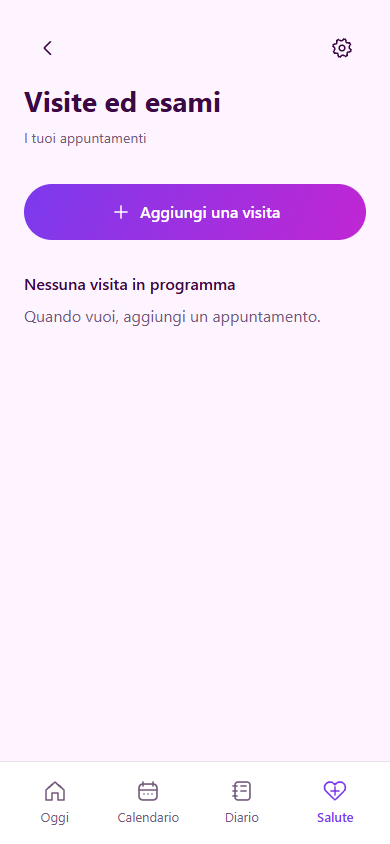
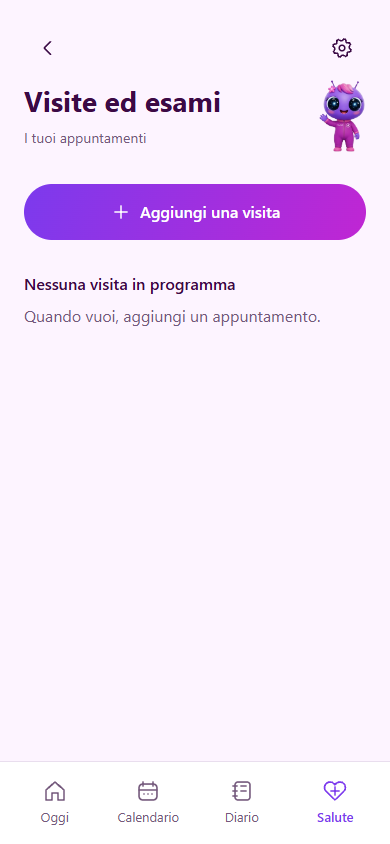
Completa tocco di Cosma, gesto nel calendario e vista annuale

Changed region(s): [[0.8308, 0.0924, 0.9538, 0.1848]]

diff --git a/src/app.js b/src/app.js
@@ -1,3 +1,5 @@
+import {calendarViewSwitch,yearCalendarHTML} from './calendar-view.js';
+import {installCalendarSwipe} from './calendar-gestures.js';
 import {createQuickEntry} from './quick-entry.js';
 import {INTIMACY,ACTIVITY,CONTEXT,MUCUS,togglePick,toggleIntimacy} from './diary-catalog.js';
 import {diaryChoices,filterDiary} from './diary-view.js';
@@ -88,7 +90,7 @@ function cosmaHelp(){
  };
  modal('Cosma ti accompagna',`<p>${esc(text[tab]||'Un giorno alla volta: scegli ciò che vuoi registrare.')}</p>`);
 }
-let foreignFlow,cosma,quickEntry;
+let foreignFlow,cosma,quickEntry,calendarView='month';
 let S = null,
   tab = "oggi",
   sel = D.today(),
@@ -304,6 +306,7 @@ function homeQuickActions(){return `<section class="home-quick-actions" aria-lab
 function vOggi(){const a=D.analysis(S),pr=a.prediction,visit=S.visits.filter(v=>v.date>=D.today()).sort((a,b)=>(a.date+a.time).localeCompare(b.date+b.time))[0],rs=reminders(S).filter(r=>r.date===D.today());if(!a.record)return `<div class="empty-home"><h2>Iniziamo da una data.</h2><p>Registra il primo giorno dell’ultima mestruazione per iniziare il tuo diario.</p>${primary('new-period','Aggiungi il primo ciclo')}</div>`;return `<div class="home-minimal"><div class="cycle-summary">${ring(a)}${button("edit-period","<span>Inizio registrato</span><strong>"+D.fmt(a.record.ls,true)+"</strong>","cycle-start-link",`data-id="${esc(S.periods.find(p=>p.start===a.record.ls).id)}"`)}</div><section class="prediction"><h2>Prossime mestruazioni</h2><p class="estimated-date">${pr?D.fmt(pr.low)+'–'+D.fmt(pr.high):'Dati ancora pochi'}</p><p class="secondary-text">${pr?'Basata sui tuoi ultimi cicli':a.used.length+' intervalli completi registrati'}</p>${button('calculation','Come l’ho calcolato?','method-link')}</section>${homeQuickActions()}${homeWeekHTML(S,{button,esc})}<button type="button" data-action="agenda" class="agenda-minimal"><span>${visit?'Visita '+D.fmt(visit.date)+', '+visit.time:'Visite da aggiungere'}</span><span aria-hidden="true">·</span><span>${rs.length?'Promemoria '+rs[0].time:'Nessun promemoria'}</span></button></div>`;}
 
 function vCal() {
+  if(calendarView==='year'){const year=Number(month.slice(0,4));return calendarViewSwitch(calendarView,{button})+`<div class="month">${button('prev-month',icon('back'),'icon-button','aria-label="Anno precedente"')}<h2>${year}</h2>${button('next-month',icon('arrow'),'icon-button','aria-label="Anno successivo"')}</div>`+yearCalendarHTML(S,year,{button,esc})+button('calculation','Come l’ho calcolato?','text-button');}
   const [y, m] = month.split("-").map(Number),
     first = new Date(y, m - 1, 1),
     off = (first.getDay() + 6) % 7,
@@ -340,7 +343,7 @@ function vCal() {
     );
   }).join("");
   const v = D.dayInfo(S, sel);
-  return `<div class="month">${button("prev-month", icon("back"), "icon-button", 'aria-label="Mese precedente"')}<h2>${first.toLocaleDateString("it-IT", { month: "long", year: "numeric" })}</h2>${button("next-month", icon("arrow"), "icon-button", 'aria-label="Mese successivo"')}</div><div class="calendar-scroll"><div class="week" aria-hidden="true">${["L", "M", "M", "G", "V", "S", "D"].map((d) => `<span>${d}</span>`).join("")}</div><div class="days">${cells}</div></div><div class="legend"><span><i class="period"></i>Mestruazioni</span><span><i class="pred"></i>Stima inizio</span><span><i class="dot"></i>Diario compilato</span><span>Fascia descrittiva</span></div><div class="card selected-day"><div class="split"><h2>${D.fmt(sel, true)}</h2>${sel === D.today() ? '<span class="tag">Oggi</span>' : ""}</div><p>${v.per ? "Mestruazioni registrate" : v.pred ? "Stima mestruazioni" : "Nessun evento del ciclo"}</p>${sel <= D.today() ? button("selected-diary", S.log[sel] ? "Modifica il diario" : "Apri il diario", "secondary") + button("new-period", "Registra mestruazioni qui", "text-button", `data-date="${sel}"`) : '<p class="hint">Puoi compilare il diario e registrare cicli fino a oggi.</p>'}</div><p class="hint">Stima basata sui tuoi cicli passati. Può cambiare, non è una previsione medica.</p>${button("calculation","Come l’ho calcolato?","text-button")}${row("periods", "cal", "Gestisci i cicli", "Modifica, elimina o escludi dalle medie")}`;
+  return `${calendarViewSwitch(calendarView,{button})}<div class="month">${button("prev-month", icon("back"), "icon-button", 'aria-label="Mese precedente"')}<h2>${first.toLocaleDateString("it-IT", { month: "long", year: "numeric" })}</h2>${button("next-month", icon("arrow"), "icon-button", 'aria-label="Mese successivo"')}</div><div class="calendar-scroll"><div class="week" aria-hidden="true">${["L", "M", "M", "G", "V", "S", "D"].map((d) => `<span>${d}</span>`).join("")}</div><div class="days">${cells}</div></div><div class="legend"><span><i class="period"></i>Mestruazioni</span><span><i class="pred"></i>Stima inizio</span><span><i class="dot"></i>Diario compilato</span><span>Fascia descrittiva</span></div><div class="card selected-day"><div class="split"><h2>${D.fmt(sel, true)}</h2>${sel === D.today() ? '<span class="tag">Oggi</span>' : ""}</div><p>${v.per ? "Mestruazioni registrate" : v.pred ? "Stima mestruazioni" : "Nessun evento del ciclo"}</p>${sel <= D.today() ? button("selected-diary", S.log[sel] ? "Modifica il diario" : "Apri il diario", "secondary") + button("new-period", "Registra mestruazioni qui", "text-button", `data-date="${sel}"`) : '<p class="hint">Puoi compilare il diario e registrare cicli fino a oggi.</p>'}</div><p class="hint">Stima basata sui tuoi cicli passati. Può cambiare, non è una previsione medica.</p>${button("calculation","Come l’ho calcolato?","text-button")}${row("periods", "cal", "Gestisci i cicli", "Modifica, elimina o escludi dalle medie")}`;
 }
 function blankLog() {
   return {
@@ -639,6 +642,7 @@ function removeConfirm(collection, id, label) {
   });
 }
 quickEntry=createQuickEntry({state:()=>S,commit,modal,close:closeModal,render,toast,esc,button,fmt:D.fmt});
+installCalendarSwipe(app,{active:()=>tab==='cal'&&!dialog.open&&!busy,move:dir=>app.querySelector('[data-action='+(dir>0?'next-month':'prev-month')+']')?.click()});
 cosma=createCosma({state:()=>S,page:()=>tab,locked:()=>locked,typing:()=>dirty||['INPUT','TEXTAREA','SELECT'].includes(document.activeElement?.tagName),modalOpen:()=>dialog.open,commit,run,go,modal,close:closeModal,esc,button});
 foreignFlow=createImportFlow({getState:()=>S,commit,commitImport:n=>commit(n,{importing:true}),modal,closeModal,render,toast,button,select,field,formEnd,esc,fmt:D.fmt,pickFile:()=>Platform.pickBackup(),testMode:__COSMA_TEST__});
 const routes = ["pms","feedback",
@@ -679,18 +683,20 @@ document.addEventListener("click", (e) => {
     return;
   }
   switch (act) {
+    case 'calendar-view':calendarView=b.dataset.view==='year'?'year':'month';render();break;
+    case 'calendar-month':if(D.validDate(b.dataset.month)){month=b.dataset.month;sel=month.slice(0,7)===D.today().slice(0,7)?D.today():month;calendarView='month';render();}break;
     case 'quick-entry':quickEntry.open(b.dataset.kind);break;
     case 'finish-quick':closeModal();render();break;
     case 'quick-diary':closeModal();sel=D.today();go('diario');break;
     case 'week-day':
       if(D.validDate(b.dataset.date)&&canLeave()){
-        sel=b.dataset.date;month=sel.slice(0,7)+'-01';go('cal');
+        sel=b.dataset.date;month=sel.slice(0,7)+'-01';calendarView='month';go('cal');
       }
       break;
     case 'foreign-table':run(()=>foreignFlow.chooseTable(Number(b.dataset.index)));break;
     case 'undo-import':run(async()=>{if(!confirm('Tornare alla copia precedente all’importazione? Anche le modifiche successive saranno rimosse.'))return;const n=await Store.undoImport();await commit(n);closeModal();render();toast('Importazione annullata. Copia precedente ripristinata.');});break;
     case 'export-json':case 'export-csv':run(async()=>{if(!confirm('Il file esportato non è cifrato e contiene dati sanitari. Vuoi salvarlo?'))return;await Platform.saveBackup(act==='export-json'?JSON.stringify(exportPortable(S),null,2):exportCSV(S),'cosma-dati-'+D.today()+(act==='export-json'?'.json':'.csv'));});break;
-    case 'cosma-toggle':case 'cosma-pose':case 'cosma-expand':case 'cosma-dismiss':case 'cosma-answer':case 'cosma-tour':case 'cosma-tour-resume':case 'cosma-tour-next':case 'cosma-tour-pause':case 'cosma-less':case 'cosma-silent':run(()=>cosma.action(act,b));break;
+    case 'cosma-touch':case 'cosma-toggle':case 'cosma-pose':case 'cosma-expand':case 'cosma-dismiss':case 'cosma-answer':case 'cosma-tour':case 'cosma-tour-resume':case 'cosma-tour-next':case 'cosma-tour-pause':case 'cosma-less':case 'cosma-silent':run(()=>cosma.action(act,b));break;
     case 'import-app':foreignFlow.open();break;
     case 'choose-foreign-file':run(()=>foreignFlow.choose());break;
     case 'map-foreign-import':foreignFlow.mapping();break;
@@ -758,7 +764,7 @@ document.addEventListener("click", (e) => {
     case "prev-month":
     case "next-month": {
       const dt = new Date(month + "T12:00:00");
-      dt.setMonth(dt.getMonth() + (act === "next-month" ? 1 : -1));
+      dt.setMonth(dt.getMonth() + (act === "next-month" ? 1 : -1)*(calendarView==='year'?12:1));
       if (dt.getFullYear() < 1900 || dt.getFullYear() > 2200) return;
       month = D.iso(dt);
       render();

diff --git a/src/cosma-ui.js b/src/cosma-ui.js
@@ -1,10 +1,10 @@
 import {messages,tour,selectMessage} from './cosma-messages.js';
 import {clone,today} from './domain.js';
-import {cosmaPoses,contextPose} from './cosma-pose.js';
+import {cosmaPoses,contextPose,manualReply} from './cosma-pose.js';
 
 export function createCosma(ui){
  let message=null,minimized=false,timer,expiry;
- const chosenPoses=new Map();
+ const chosenPoses=new Map(),manualCounts=new Map();
  const figure=(pose,large)=>`<img src="${pose}" alt="Cosma a figura intera" width="${large?88:48}" height="${large?144:72}">`;
  function clear(){clearTimeout(timer);clearTimeout(expiry);document.querySelector('#cosma-stage')?.remove();document.querySelectorAll('.coach-target').forEach(e=>e.classList.remove('coach-target'));}
  function paint(page){
@@ -14,10 +14,10 @@ export function createCosma(ui){
   const stage=document.createElement('section');stage.id='cosma-stage';stage.className='cosma-stage '+(page==='oggi'&&!minimized?'cosma-home':'cosma-small');
   stage.setAttribute('aria-label','Assistente Cosma');
   stage.dataset.tour=String(s.cosmaTour);
-  const bubble=m?`<div class="cosma-bubble"><div aria-live="polite"><p>${touring?'<b>'+ui.esc(step.title)+'</b><br>':''}${ui.esc(m.text)}</p></div>${m.answers?'<div class="cosma-answers">'+m.answers.map((a,i)=>ui.button('cosma-answer',a,'',`data-mood="${i}"`)).join('')+'</div>':''}${m.action?ui.button(m.action,m.label,'text-button'):''}${touring?`<div class="tour-controls">${ui.button('cosma-tour-next',s.cosmaTour===7?'Termina':'Avanti','secondary')}${ui.button('cosma-tour-pause','Salta per ora','text-button')}<span class="hint">${s.cosmaTour+1} di 8</span></div>`:ui.button('cosma-dismiss','Chiudi','text-button')}</div>`:'';
+  const bubble=m?`<div class="cosma-bubble"><div aria-live="polite"><p>${touring?'<b>'+ui.esc(step.title)+'</b><br>':''}${ui.esc(m.text)}</p></div>${m.answers?'<div class="cosma-answers">'+m.answers.map((a,i)=>ui.button('cosma-answer',a,'',`data-mood="${i}"`)).join('')+'</div>':''}${m.action?ui.button(m.action,m.label,'text-button'):''}${touring?`<div class="tour-controls">${ui.button('cosma-tour-next',s.cosmaTour===7?'Termina':'Avanti','secondary')}${ui.button('cosma-tour-pause','Salta per ora','text-button')}<span class="hint">${s.cosmaTour+1} di 8</span></div>`:'<div class="cosma-bubble-actions">'+ui.button('cosma-toggle','Opzioni','text-button')+ui.button('cosma-dismiss','Chiudi','text-button')+'</div>'}</div>`:'';
   const difficult=s.log[today()]?.umore==='Triste'||s.log[today()]?.dolore>=7;
   const pose=touring?'cosma-saluta-intera.png':chosenPoses.get(page)||contextPose(page,{night:night||s.cosmaPresence==='silenziosa',messagePose:m?.pose,difficult});
-  stage.innerHTML=bubble+ui.button('cosma-toggle',figure(pose,page==='oggi'&&!minimized),'cosma-figure','aria-label="Apri il menu di Cosma"');
+  stage.innerHTML=bubble+ui.button(touring?'cosma-toggle':'cosma-touch',figure(pose,page==='oggi'&&!minimized),'cosma-figure',touring?'aria-label="Apri il menu di Cosma"':'aria-label="Parla con Cosma"');
   const summary=page==='oggi'&&!touring?document.querySelector('.cycle-summary'):null;
   if(summary)summary.append(stage);
   else if(!touring&&page!=='oggi'&&!m)document.querySelector('#header .screen-heading').after(stage);
@@ -37,6 +37,11 @@ export function createCosma(ui){
   }),1200);
  }
  async function action(act,el){
+  if(act==='cosma-touch'){
+   const page=ui.page(),index=manualCounts.get(page)||0,current=document.querySelector('#cosma-stage img')?.getAttribute('src');
+   chosenPoses.set(page,cosmaPoses[(cosmaPoses.indexOf(current)+1)%cosmaPoses.length]);
+   message=manualReply(page,index);if(message==='hello'&&!ui.state().categories.umore)message='general';manualCounts.set(page,index+1);minimized=false;paint(page);return;
+  }
   if(act==='cosma-toggle'){
    message=null;minimized=true;paint(ui.page());
    ui.modal('Cosma ti accompagna',`<p>${ui.esc((messages[ui.page()]||messages.general).text)}</p>${ui.button('today-diary','Cosa posso registrare oggi?','secondary')}${ui.button('cosma-tour','Rifai il tour','text-button')}${ui.button('cosma-less','Parla meno','text-button')}${ui.button('cosma-silent','Silenzio','text-button')}${ui.button('cosma-pose','Cambia posa','text-button')}${ui.button('cosma-expand','Mostra Cosma','text-button')}`);return;

diff --git a/src/style.css b/src/style.css
@@ -1430,3 +1430,16 @@ dialog.bottom-sheet:before{content:"";display:block;width:40px;height:4px;border
 .diary-choice{position:relative}
 .diary-choice[aria-pressed=true]:after{content:"\2713";position:absolute;right:-4px;bottom:-4px;display:grid;place-items:center;width:19px;height:19px;border-radius:50%;background:var(--accent);color:var(--surface);border:2px solid var(--surface);font-size:12px;line-height:1}
 .quick-symptoms .diary-choice[aria-pressed=true]:after{top:46px;bottom:auto;right:calc(50% - 28px)}
+
+.calendar-views{display:flex;justify-content:center;width:max-content;max-width:100%;margin:0 auto 20px;padding:4px;background:var(--tint);border-radius:999px}
+.calendar-views button{min-width:88px;min-height:48px;padding:8px 16px;border-radius:999px;font-size:16px}
+.calendar-views button[aria-pressed=true]{background:var(--surface);font-weight:600}
+.calendar-scroll,.calendar-year{touch-action:pan-y}
+.calendar-year{display:grid;grid-template-columns:repeat(2,minmax(0,1fr));gap:16px 12px;margin:20px 0}
+.mini-month{display:block;min-width:0;text-align:left;padding:12px 8px;background:var(--surface);border:1px solid var(--border);border-radius:20px}
+.mini-title{display:block;font-size:16px;font-weight:600;line-height:24px;margin-bottom:8px}
+.mini-grid{display:grid;grid-template-columns:repeat(7,minmax(0,1fr));gap:2px 0}
+.mini-day,.mini-weekday{display:grid;place-items:center;min-width:0;font-size:12px;line-height:22px;min-height:22px;border:1px solid transparent;border-radius:999px;font-variant-numeric:tabular-nums}
+.mini-weekday{color:var(--muted)}.mini-day.registered{background:var(--text);color:var(--surface)}.mini-day.estimated{border-style:dashed;border-color:var(--accent)}.mini-day.current-day{font-weight:700;text-decoration:underline}
+
+.cosma-bubble-actions{display:flex;justify-content:space-between;gap:12px;margin-top:8px}

diff --git a/src/calendar-view.js b/src/calendar-view.js
@@ -1,0 +1,7 @@
+import {addD,validDate,dayInfo,today} from './domain.js';
+export function monthDates(month){if(!validDate(month)||month.slice(8)!=='01')throw Error('Mese non valido.');const first=new Date(month+'T12:00:00Z'),offset=(first.getUTCDay()+6)%7;return Array.from({length:42},(_,i)=>{const date=addD(month,i-offset);return date.slice(0,7)===month.slice(0,7)?date:null;});}
+export function calendarViewSwitch(view,{button}){return `<div class="calendar-views" role="group" aria-label="Vista del calendario">${['month','year'].map(v=>button('calendar-view',v==='month'?'Mese':'Anno','',`data-view="${v}" aria-pressed="${v===view}"`)).join('')}</div>`;}
+export function yearCalendarHTML(state,year,{button,esc},asOf=today()){
+ if(!Number.isInteger(year)||year<1900||year>2200)throw Error('Scegli un anno tra 1900 e 2200.');
+ return `<div class="calendar-year" aria-label="Calendario ${year}">${Array.from({length:12},(_,i)=>{const month=year+'-'+String(i+1).padStart(2,'0')+'-01',name=new Date(month+'T12:00:00Z').toLocaleDateString('it-IT',{month:'long',timeZone:'UTC'}),cells=monthDates(month).map(date=>{if(!date)return'<span class="mini-day" aria-hidden="true"></span>';const info=dayInfo(state,date,asOf),kind=info.per?'registered':info.pred?'estimated':'';return `<span class="mini-day ${kind} ${date===asOf?'current-day':''}" aria-hidden="true">${Number(date.slice(8))}</span>`;}).join('');return button('calendar-month',`<span class="mini-title">${esc(name)}</span><span class="mini-grid" aria-hidden="true">${['L','M','M','G','V','S','D'].map(x=>'<span class="mini-weekday">'+x+'</span>').join('')}${cells}</span>`,'mini-month',`data-month="${month}" aria-label="Apri ${esc(name)} ${year}"`);}).join('')}</div><p class="hint">Pieno: registrazioni. Tratteggio: fascia descrittiva del prossimo inizio. Tocca un mese per aprirlo.</p>`;
+}

diff --git a/src/calendar-gestures.js b/src/calendar-gestures.js
@@ -1,0 +1,8 @@
+export function swipeDirection(start,end){if(!start||!end||end.time<start.time||end.time-start.time>1200)return 0;const x=end.x-start.x,y=end.y-start.y;return Math.abs(x)>=64&&Math.abs(x)>Math.abs(y)*1.4?(x<0?1:-1):0;}
+export function installCalendarSwipe(root,{active,move}){
+ let start=null,last=null;
+ root.addEventListener('pointerdown',e=>{if(!active()||!e.isPrimary||!e.target.closest('.calendar-scroll,.calendar-year'))return;start={x:e.clientX,y:e.clientY,time:Date.now(),id:e.pointerId};},{passive:true});
+ root.addEventListener('pointercancel',()=>{start=null;},{passive:true});
+ root.addEventListener('pointerup',e=>{if(!start||e.pointerId!==start.id)return;const end={x:e.clientX,y:e.clientY,time:Date.now()},dir=swipeDirection(start,end);start=null;if(!active()||!dir)return;last=end;move(dir);},{passive:true});
+ root.addEventListener('click',e=>{if(last&&Date.now()-last.time<450&&Math.hypot(e.clientX-last.x,e.clientY-last.y)<24&&e.target.closest('.calendar-scroll,.calendar-year')){e.preventDefault();e.stopImmediatePropagation();last=null;}},true);
+}

diff --git a/src/cosma-messages.js b/src/cosma-messages.js
@@ -2,6 +2,7 @@ import {analysis,diff,today,healthNotices} from './domain.js';
 
 // Catalogo locale: nessun testo generato o richiesto in rete.
 export const messages={
+ quick:{text:'Tocca ciò che vuoi registrare. Puoi scegliere più sintomi.',pose:'cosma-saluta-intera.png',action:'quick-entry',label:'Apri registrazione rapida',source:'S00'},
  hello:{text:'Come stai oggi? Ti va di segnarlo?',pose:'cosma-saluta-intera.png',answers:['Bene','Così così','Non bene'],source:'S00'},
  end:{text:'Il flusso è finito? Se vuoi, puoi registrare la data di fine.',pose:'cosma-in-piedi.png',action:'end-period',label:'Controlla le date',source:'S00'},
  estimate:{text:'La stima è vicina. Si basa sui cicli passati e può cambiare.',pose:'cosma-in-piedi.png',action:'calculation',label:'Come l’ho calcolato?',source:'S00, S07, S16'},

diff --git a/src/cosma-pose.js b/src/cosma-pose.js
@@ -7,3 +7,5 @@ export function contextPose(page,{night=false,messagePose,difficult=false}={}){
  if(['settings','visits','feedback','learn'].includes(page))return cosmaPoses[1];
  return cosmaPoses[0];
 }
+
+export function manualReply(page,index=0){const list=({oggi:['hello','quick','statistics','general'],cal:['cal','general'],diario:['diario','comfort'],salute:['salute','general'],settings:['settings','general']})[page]||['general'];return list[Math.max(0,Math.trunc(index)||0)%list.length];}

diff --git a/README.md b/README.md
@@ -1,5 +1,16 @@
 # Cosma · Android 1.0 di prova
 
+## Fase 5–6 e vista annuale, prova.10
+
+Toccando Cosma si cambia posa e si apre un messaggio contestuale del catalogo locale; dal fumetto, Opzioni apre i controlli della presenza e del tour. I messaggi automatici conservano limiti, pausa notturna e modalità Silenziosa. Quelli richiesti con un tocco non attribuiscono fasi personali né modificano registrazioni.
+
+Il Calendario ha Mese/Anno, dodici mesi consultabili nell’anno e un gesto laterale per cambiare mese o anno, oltre alle frecce. Toccare un mese apre la vista dettagliata. Nella vista annuale ogni mese è un unico comando ampio: i numeri piccoli non sono pulsanti separati. Sono riportate soltanto registrazioni e la fascia del prossimo inizio già calcolata, senza reiterare una previsione per i mesi futuri o localizzare fertilità. La vista di dettaglio continua a ricalcolare dal primo giorno registrato.
+
+81 test Node e verifiche dell’interfaccia locali superati: mesi bisestili e date civili, direzione del gesto, distinzione dallo scorrimento verticale, dodici mesi, apertura e cambio anno, tocco della mascotte. I test dell’interfaccia usano una data iniziale fissa con orologio che avanza, per non dipendere dal giorno di esecuzione; nell’app reale l’orologio non è cambiato. Prove reali di touch, TalkBack e caratteri grandi rimangono nella checklist. Le funzioni scientifiche e la firma sono conservate.
+
+Restano per la Release complessiva: consigli organizzati, primo avvio a passi e verifica F-Droid, seguiti dalle verifiche finali dell’APK.
+
+
 ## Fase 3–4 e icone richieste, prova.9
 
 Completati i tre pulsanti tondi su Oggi e il pannello dal basso: le selezioni di flusso, umore e sintomi si salvano al tocco; le note hanno il loro comando di salvataggio. Il Diario ha categorie e pulsanti illustrati sul modello dei riferimenti forniti. Le figure umane sono sostituite da sette nuove varianti di Cosma, generate su richiesta esplicita dell’utente, conservando intatte le nove immagini originali. Master e prompt sono in design/mascotte-sintomi; icone a 160/320 px in src/; provenienza e hash in docs/POSE-SINTOMI.json.
@@ -22,7 +33,7 @@ Verifiche locali: 69 test Node, controlli dell’interfaccia aggiornati, ricerca
 Restano a fasi successive: pannelli rapidi dal basso, ulteriori categorie dei riferimenti (rapporti facoltativi, digestione, attività e nuovi sintomi), vista annuale e calendario su più mesi, gesto laterale, organizzazione dei consigli, onboarding a passi e verifica F-Droid. La nuova grafica non certifica la compatibilità su ogni telefono o con ogni impostazione dei caratteri Android.
 
 
-**Versione pronta da provare: [scarica l’APK 1.0.0-prova.9](https://github.com/CosmoNetinfo/Cosma/releases/download/v1.0.0-prova.9/Cosma.apk).** Installalo sopra Cosma, senza disinstallare e senza cancellare i dati. Per continuare il lavoro da un altro PC leggi [Continua da qui](docs/CONTINUA-DA-QUI.md).
+**Versione pronta da provare: [scarica l’APK 1.0.0-prova.10](https://github.com/CosmoNetinfo/Cosma/releases/download/v1.0.0-prova.10/Cosma.apk).** Installalo sopra Cosma, senza disinstallare e senza cancellare i dati. Per continuare il lavoro da un altro PC leggi [Continua da qui](docs/CONTINUA-DA-QUI.md).
 
 Cosma è un diario del ciclo in italiano, senza account e senza servizi esterni. **Questo repository è già configurato con una chiave di firma definitiva e i quattro secrets Android. Non ricreare la chiave.** GitHub Actions costruisce e firma l’APK automaticamente: i file prodotti sono nella pagina [Actions](https://github.com/CosmoNetinfo/Cosma/actions), le versioni numerate nella pagina [Releases](https://github.com/CosmoNetinfo/Cosma/releases).
 

diff --git a/docs/ESITO-TEST.md b/docs/ESITO-TEST.md
@@ -1,5 +1,16 @@
 # Verifiche della versione con assistente e importazione
 
+## Fase 5–6 e vista annuale, prova.10
+
+Toccando Cosma si cambia posa e si apre un messaggio contestuale del catalogo locale; dal fumetto, Opzioni apre i controlli della presenza e del tour. I messaggi automatici conservano limiti, pausa notturna e modalità Silenziosa. Quelli richiesti con un tocco non attribuiscono fasi personali né modificano registrazioni.
+
+Il Calendario ha Mese/Anno, dodici mesi consultabili nell’anno e un gesto laterale per cambiare mese o anno, oltre alle frecce. Toccare un mese apre la vista dettagliata. Nella vista annuale ogni mese è un unico comando ampio: i numeri piccoli non sono pulsanti separati. Sono riportate soltanto registrazioni e la fascia del prossimo inizio già calcolata, senza reiterare una previsione per i mesi futuri o localizzare fertilità. La vista di dettaglio continua a ricalcolare dal primo giorno registrato.
+
+81 test Node e verifiche dell’interfaccia locali superati: mesi bisestili e date civili, direzione del gesto, distinzione dallo scorrimento verticale, dodici mesi, apertura e cambio anno, tocco della mascotte. I test dell’interfaccia usano una data iniziale fissa con orologio che avanza, per non dipendere dal giorno di esecuzione; nell’app reale l’orologio non è cambiato. Prove reali di touch, TalkBack e caratteri grandi rimangono nella checklist. Le funzioni scientifiche e la firma sono conservate.
+
+Restano per la Release complessiva: consigli organizzati, primo avvio a passi e verifica F-Droid, seguiti dalle verifiche finali dell’APK.
+
+
 ## Fase 3–4 e icone richieste, prova.9
 
 Completati i tre pulsanti tondi su Oggi e il pannello dal basso: le selezioni di flusso, umore e sintomi si salvano al tocco; le note hanno il loro comando di salvataggio. Il Diario ha categorie e pulsanti illustrati sul modello dei riferimenti forniti. Le figure umane sono sostituite da sette nuove varianti di Cosma, generate su richiesta esplicita dell’utente, conservando intatte le nove immagini originali. Master e prompt sono in design/mascotte-sintomi; icone a 160/320 px in src/; provenienza e hash in docs/POSE-SINTOMI.json.

diff --git a/docs/CONTINUA-DA-QUI.md b/docs/CONTINUA-DA-QUI.md
@@ -1,5 +1,16 @@
 # Continuare Cosma da un altro computer
 
+## Fase 5–6 e vista annuale, prova.10
+
+Toccando Cosma si cambia posa e si apre un messaggio contestuale del catalogo locale; dal fumetto, Opzioni apre i controlli della presenza e del tour. I messaggi automatici conservano limiti, pausa notturna e modalità Silenziosa. Quelli richiesti con un tocco non attribuiscono fasi personali né modificano registrazioni.
+
+Il Calendario ha Mese/Anno, dodici mesi consultabili nell’anno e un gesto laterale per cambiare mese o anno, oltre alle frecce. Toccare un mese apre la vista dettagliata. Nella vista annuale ogni mese è un unico comando ampio: i numeri piccoli non sono pulsanti separati. Sono riportate soltanto registrazioni e la fascia del prossimo inizio già calcolata, senza reiterare una previsione per i mesi futuri o localizzare fertilità. La vista di dettaglio continua a ricalcolare dal primo giorno registrato.
+
+81 test Node e verifiche dell’interfaccia locali superati: mesi bisestili e date civili, direzione del gesto, distinzione dallo scorrimento verticale, dodici mesi, apertura e cambio anno, tocco della mascotte. I test dell’interfaccia usano una data iniziale fissa con orologio che avanza, per non dipendere dal giorno di esecuzione; nell’app reale l’orologio non è cambiato. Prove reali di touch, TalkBack e caratteri grandi rimangono nella checklist. Le funzioni scientifiche e la firma sono conservate.
+
+Restano per la Release complessiva: consigli organizzati, primo avvio a passi e verifica F-Droid, seguiti dalle verifiche finali dell’APK.
+
+
 ## Fase 3–4 e icone richieste, prova.9
 
 Completati i tre pulsanti tondi su Oggi e il pannello dal basso: le selezioni di flusso, umore e sintomi si salvano al tocco; le note hanno il loro comando di salvataggio. Il Diario ha categorie e pulsanti illustrati sul modello dei riferimenti forniti. Le figure umane sono sostituite da sette nuove varianti di Cosma, generate su richiesta esplicita dell’utente, conservando intatte le nove immagini originali. Master e prompt sono in design/mascotte-sintomi; icone a 160/320 px in src/; provenienza e hash in docs/POSE-SINTOMI.json.

diff --git a/docs/NON-VERIFICATO.md b/docs/NON-VERIFICATO.md
@@ -1,5 +1,16 @@
 # Limiti e verifiche mancanti
 
+## Fase 5–6 e vista annuale, prova.10
+
+Toccando Cosma si cambia posa e si apre un messaggio contestuale del catalogo locale; dal fumetto, Opzioni apre i controlli della presenza e del tour. I messaggi automatici conservano limiti, pausa notturna e modalità Silenziosa. Quelli richiesti con un tocco non attribuiscono fasi personali né modificano registrazioni.
+
+Il Calendario ha Mese/Anno, dodici mesi consultabili nell’anno e un gesto laterale per cambiare mese o anno, oltre alle frecce. Toccare un mese apre la vista dettagliata. Nella vista annuale ogni mese è un unico comando ampio: i numeri piccoli non sono pulsanti separati. Sono riportate soltanto registrazioni e la fascia del prossimo inizio già calcolata, senza reiterare una previsione per i mesi futuri o localizzare fertilità. La vista di dettaglio continua a ricalcolare dal primo giorno registrato.
+
+81 test Node e verifiche dell’interfaccia locali superati: mesi bisestili e date civili, direzione del gesto, distinzione dallo scorrimento verticale, dodici mesi, apertura e cambio anno, tocco della mascotte. I test dell’interfaccia usano una data iniziale fissa con orologio che avanza, per non dipendere dal giorno di esecuzione; nell’app reale l’orologio non è cambiato. Prove reali di touch, TalkBack e caratteri grandi rimangono nella checklist. Le funzioni scientifiche e la firma sono conservate.
+
+Restano per la Release complessiva: consigli organizzati, primo avvio a passi e verifica F-Droid, seguiti dalle verifiche finali dell’APK.
+
+
 ## Fase 3–4 e icone richieste, prova.9
 
 Completati i tre pulsanti tondi su Oggi e il pannello dal basso: le selezioni di flusso, umore e sintomi si salvano al tocco; le note hanno il loro comando di salvataggio. Il Diario ha categorie e pulsanti illustrati sul modello dei riferimenti forniti. Le figure umane sono sostituite da sette nuove varianti di Cosma, generate su richiesta esplicita dell’utente, conservando intatte le nove immagini originali. Master e prompt sono in design/mascotte-sintomi; icone a 160/320 px in src/; provenienza e hash in docs/POSE-SINTOMI.json.

diff --git a/docs/AVANZAMENTO-v1.1.md b/docs/AVANZAMENTO-v1.1.md
@@ -1,5 +1,16 @@
 # Cosma v1.1 per fasi
 
+## Fase 5–6 e vista annuale, prova.10
+
+Toccando Cosma si cambia posa e si apre un messaggio contestuale del catalogo locale; dal fumetto, Opzioni apre i controlli della presenza e del tour. I messaggi automatici conservano limiti, pausa notturna e modalità Silenziosa. Quelli richiesti con un tocco non attribuiscono fasi personali né modificano registrazioni.
+
+Il Calendario ha Mese/Anno, dodici mesi consultabili nell’anno e un gesto laterale per cambiare mese o anno, oltre alle frecce. Toccare un mese apre la vista dettagliata. Nella vista annuale ogni mese è un unico comando ampio: i numeri piccoli non sono pulsanti separati. Sono riportate soltanto registrazioni e la fascia del prossimo inizio già calcolata, senza reiterare una previsione per i mesi futuri o localizzare fertilità. La vista di dettaglio continua a ricalcolare dal primo giorno registrato.
+
+81 test Node e verifiche dell’interfaccia locali superati: mesi bisestili e date civili, direzione del gesto, distinzione dallo scorrimento verticale, dodici mesi, apertura e cambio anno, tocco della mascotte. I test dell’interfaccia usano una data iniziale fissa con orologio che avanza, per non dipendere dal giorno di esecuzione; nell’app reale l’orologio non è cambiato. Prove reali di touch, TalkBack e caratteri grandi rimangono nella checklist. Le funzioni scientifiche e la firma sono conservate.
+
+Restano per la Release complessiva: consigli organizzati, primo avvio a passi e verifica F-Droid, seguiti dalle verifiche finali dell’APK.
+
+
 ## Fase 3–4 e icone richieste, prova.9
 
 Completati i tre pulsanti tondi su Oggi e il pannello dal basso: le selezioni di flusso, umore e sintomi si salvano al tocco; le note hanno il loro comando di salvataggio. Il Diario ha categorie e pulsanti illustrati sul modello dei riferimenti forniti. Le figure umane sono sostituite da sette nuove varianti di Cosma, generate su richiesta esplicita dell’utente, conservando intatte le nove immagini originali. Master e prompt sono in design/mascotte-sintomi; icone a 160/320 px in src/; provenienza e hash in docs/POSE-SINTOMI.json.
